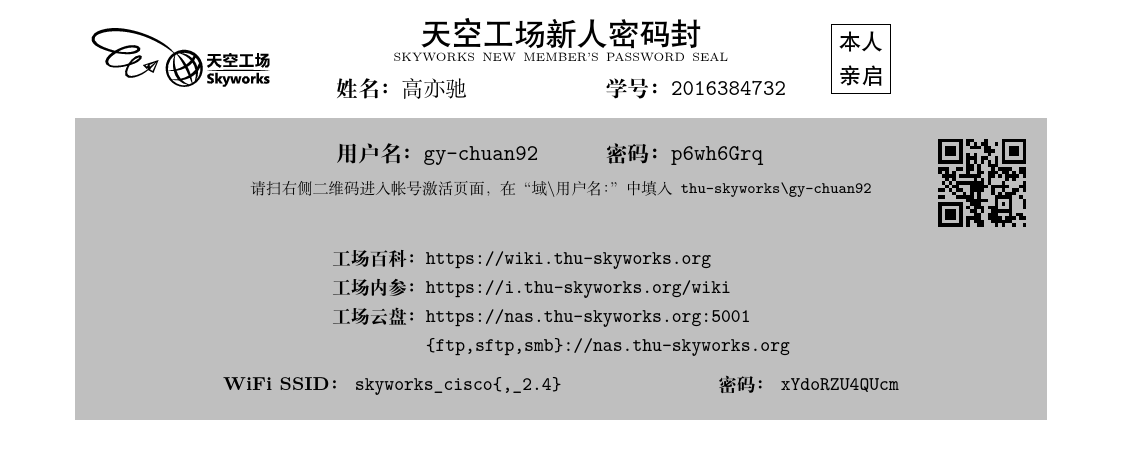
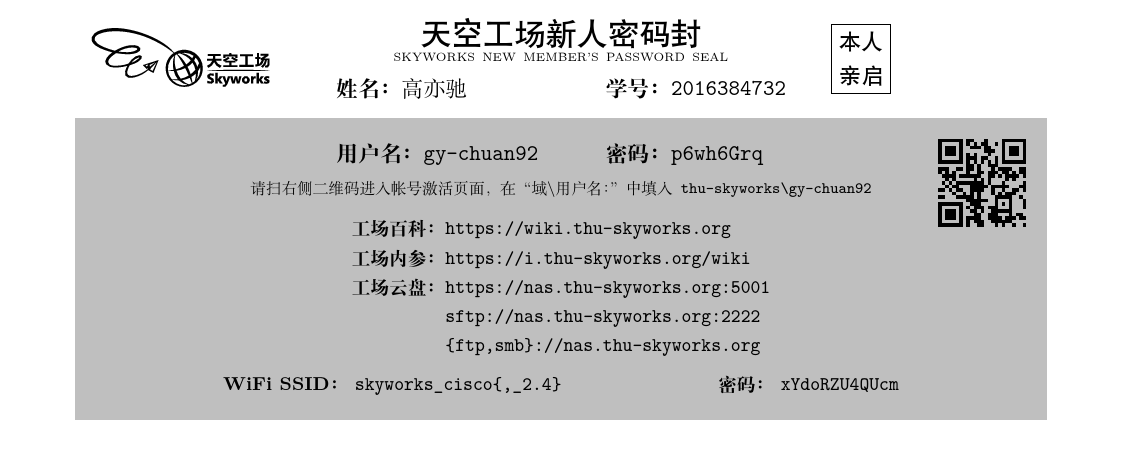
SFTP port correction.

diff --git a/passwordseal.tex b/passwordseal.tex
@@ -37,7 +37,8 @@
 				\textbf{工场百科：} & \texttt{https://wiki.thu-skyworks.org}\\
 				\textbf{工场内参：} & \texttt{https://i.thu-skyworks.org/wiki}\\
 				\textbf{工场云盘：} & \texttt{https://nas.thu-skyworks.org:5001}\\
-						    & \texttt{\{ftp,sftp,smb\}://nas.thu-skyworks.org}
+						    & \texttt{sftp://nas.thu-skyworks.org:2222}\\
+						    & \texttt{\{ftp,smb\}://nas.thu-skyworks.org}
 			\end{tabular}
 		};
 %\end{tikzpicture}
